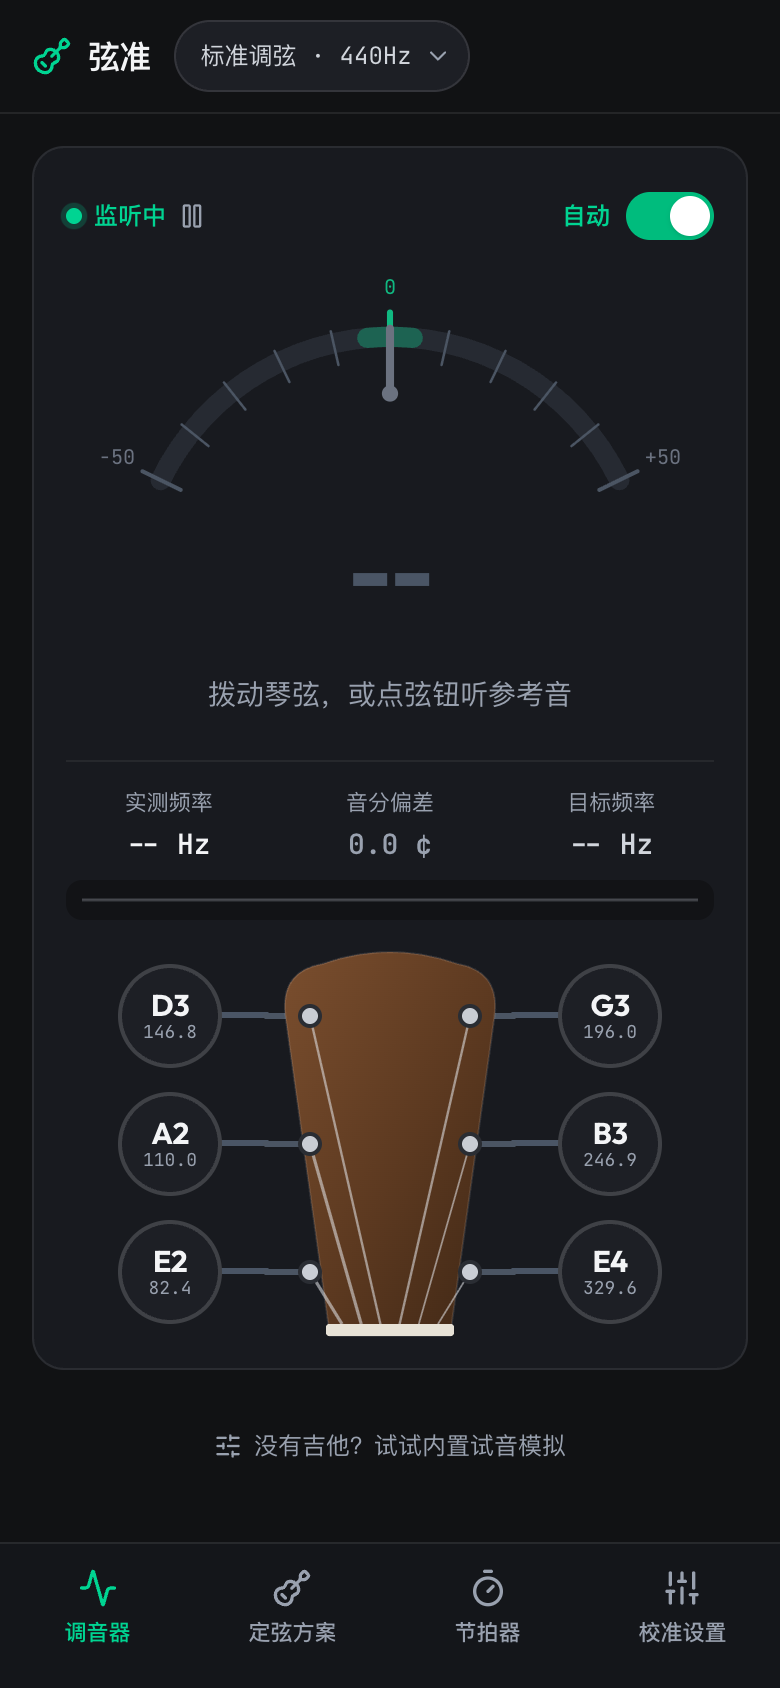
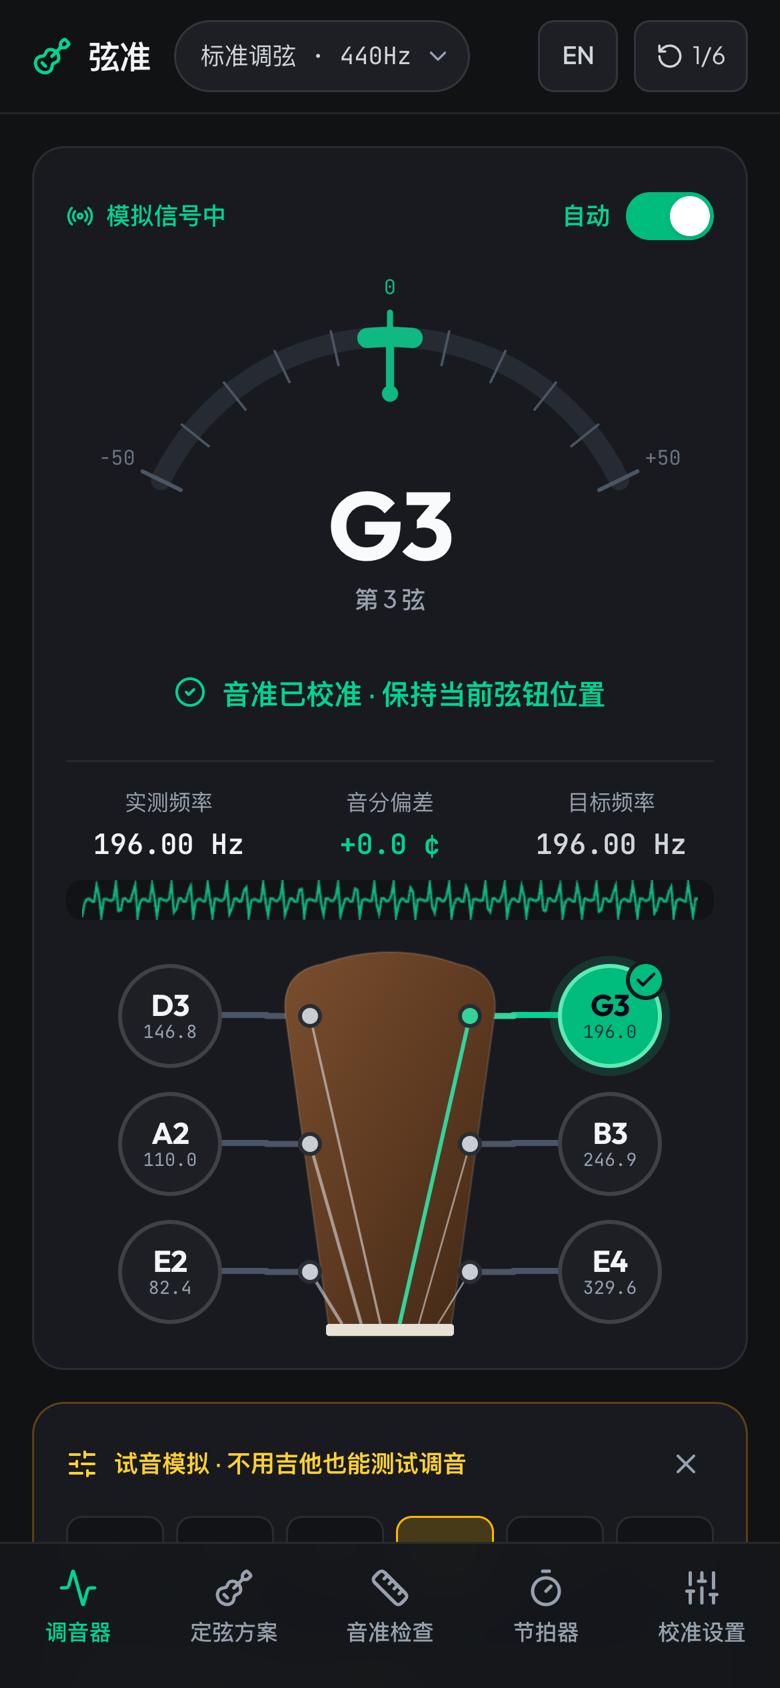
docs: update README phone screenshot and align images

diff --git a/README.md b/README.md
@@ -8,9 +8,9 @@ A guitar tuner and metronome that runs in the browser, on Android, macOS and Win
 - **Download**: Android, macOS and Windows builds on the [Releases](https://github.com/sundy-li/xianzhun/releases) page
 
 <p align="center">
-  <img src="docs/images/mobile.png" alt="Tuner on a phone" width="260">
+  <img src="docs/images/mobile.png" alt="Tuner on a phone" height="360">
   &nbsp;
-  <img src="docs/images/desktop.png" alt="Tuner on desktop" width="540">
+  <img src="docs/images/desktop.png" alt="Tuner on desktop" height="360">
 </p>
 
 ## Features

diff --git a/README.zh-CN.md b/README.zh-CN.md
@@ -8,9 +8,9 @@
 - **下载安装包**：Android、macOS、Windows 版本见 [Releases](https://github.com/sundy-li/xianzhun/releases)
 
 <p align="center">
-  <img src="docs/images/mobile.png" alt="手机端调音页" width="260">
+  <img src="docs/images/mobile.png" alt="手机端调音页" height="360">
   &nbsp;
-  <img src="docs/images/desktop.png" alt="桌面端调音页" width="540">
+  <img src="docs/images/desktop.png" alt="桌面端调音页" height="360">
 </p>
 
 ## 功能
